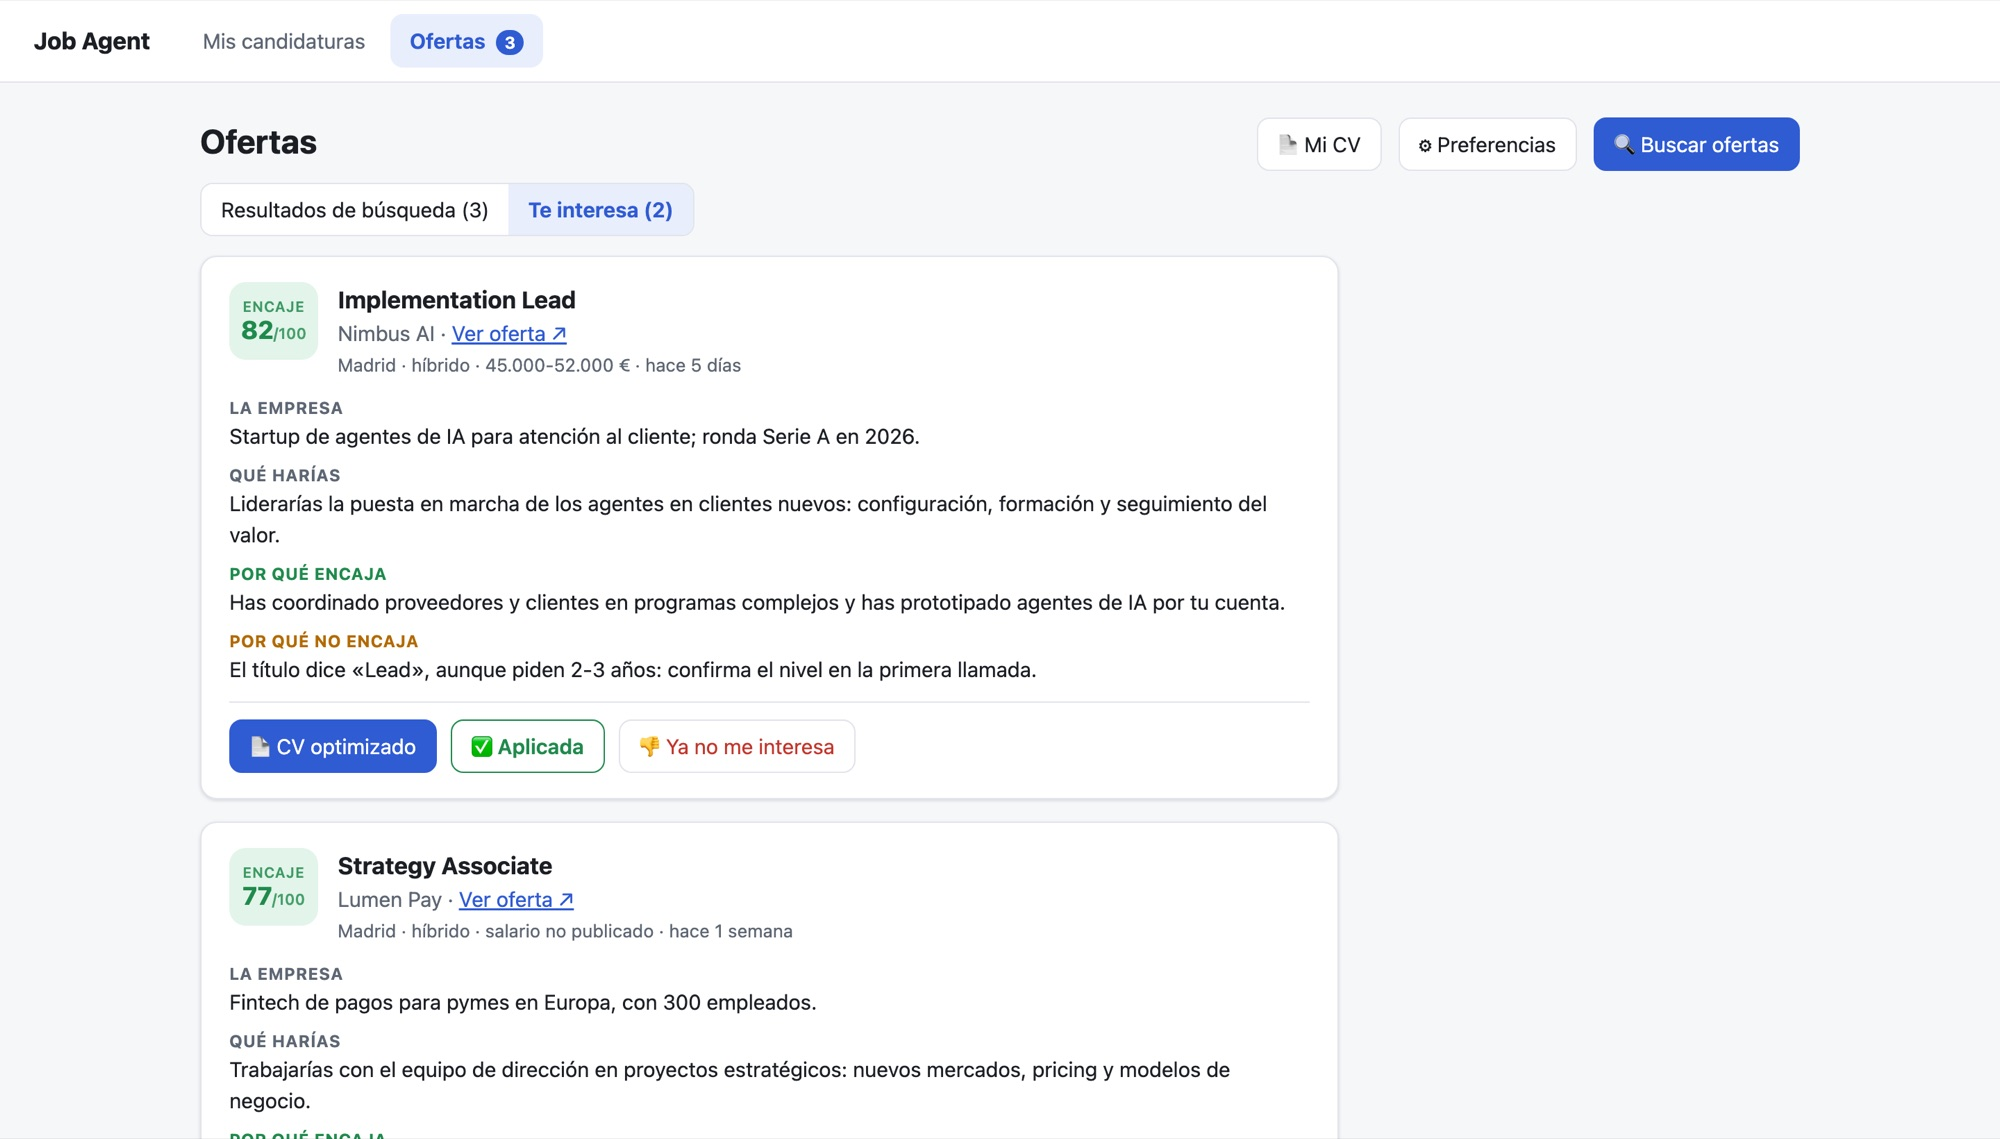
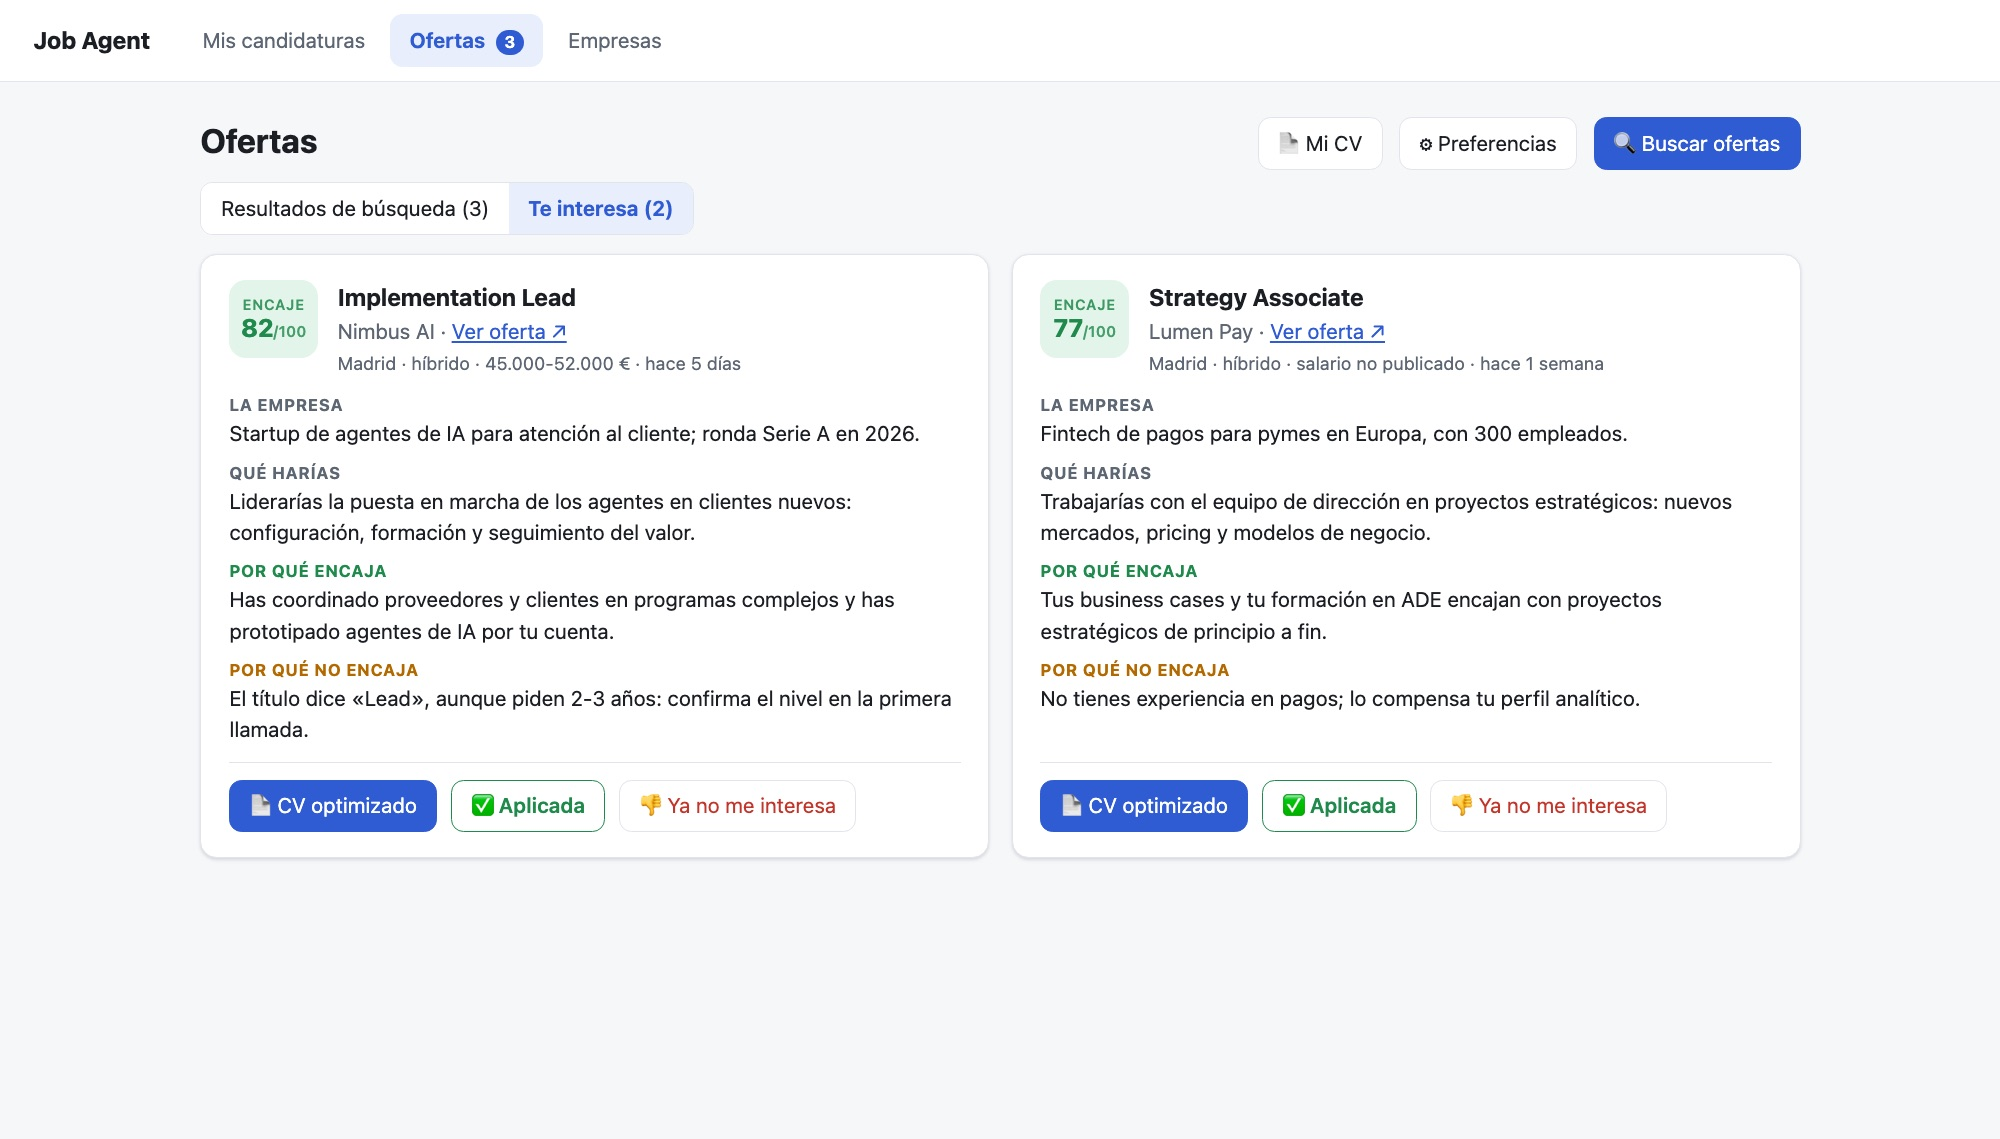
Job Agent: fichas de empresas y capturas nuevas de la interfaz

diff --git a/index.html b/index.html
@@ -93,7 +93,11 @@ h3 { font-size: 21px; letter-spacing: -.3px; margin: 0 0 8px; }
 .subtitulo { margin: 8px 0 14px; }
 .funcion ul { margin: 0; padding-left: 16px; color: var(--suave); font-size: 14px; }
 .funcion li { margin: 4px 0; }
-.funciones .funcion:last-child:nth-child(3n+1) { grid-column: 1 / -1; }
+.funciones { grid-template-columns: repeat(6, minmax(0, 1fr)); }
+.funciones .funcion { grid-column: span 2; }
+.funciones .funcion:nth-child(3n+1):nth-last-child(2), .funciones .funcion:nth-child(3n+1):nth-last-child(2) + .funcion { grid-column: span 3; }
+.funciones .funcion:nth-child(3n+1):last-child { grid-column: 1 / -1; }
+.galeria figure:last-child:nth-child(odd) { grid-column: 1 / -1; }
 .ficha { display: grid; grid-template-columns: auto 1fr; gap: 6px 14px; margin: 0; font-size: 14.5px; }
 .ficha dt { font-weight: 600; }
 .ficha dd { margin: 0; color: var(--suave); }
@@ -136,6 +140,7 @@ footer { border-top: 1px solid var(--borde); color: var(--suave); font-size: 13.
 .visor img { max-width: 96vw; max-height: 92vh; border-radius: 10px; box-shadow: 0 20px 60px rgba(0,0,0,.5); }
 
 @media (max-width: 860px) {
+  .funciones .funcion, .galeria figure { grid-column: auto !important; }
   .cifras-proyecto { grid-template-columns: repeat(2, minmax(0, 1fr)); }
   .funciones, .proyectos, .formacion, .dos-columnas, .galeria { grid-template-columns: minmax(0, 1fr); }
   .portada-grid, .skills { grid-template-columns: minmax(0, 1fr); gap: 28px; }
@@ -240,6 +245,7 @@ footer { border-top: 1px solid var(--borde); color: var(--suave); font-size: 13.
           <div class="funcion"><div class="icono">🧠</div><b><span lang="es">Aprende de mí</span><span lang="en">Learns from me</span></b><ul><li><span lang="es">Cada 👍/👎 a una oferta, con su motivo, ajusta mis «señales aprendidas»: lo que me interesa y lo que descarto.</span><span lang="en">Every 👍/👎 on an opening, with its reason, updates my "learned signals": what I like and what I reject.</span></li><li><span lang="es">Al ponderar las recomendaciones también tiene en cuenta las candidaturas en las que ya me han rechazado.</span><span lang="en">When weighing recommendations it also considers the applications where I've already been turned down.</span></li><li><span lang="es">Las búsquedas siguientes ya las tienen en cuenta, así que cuanto más lo uso, mejor acierta.</span><span lang="en">The next searches already take them into account, so the more I use it, the better it gets.</span></li></ul></div>
           <div class="funcion"><div class="icono">📄</div><b><span lang="es">CV optimizado y CV general</span><span lang="en">Tailored CV and general CV</span></b><ul><li><span lang="es">Un CV de una página para cada oferta, sin inventar nada.</span><span lang="en">A one-page CV for each opening, without making anything up.</span></li><li><span lang="es">Vista previa con notas: qué valoran, una tabla ✅/⚠/❌, qué ha cambiado y qué huecos preparar para la entrevista.</span><span lang="en">Preview with notes: what they value, a ✅/⚠/❌ table, what changed and which gaps to prepare for the interview.</span></li><li><span lang="es">Me avisa si aparece una cifra que no está en mi CV. También hace un CV general en inglés o en español.</span><span lang="en">It warns me if a figure appears that is not in my CV. It also makes a general CV in English or Spanish.</span></li></ul></div>
           <div class="funcion"><div class="icono">📊</div><b><span lang="es">Seguimiento de candidaturas</span><span lang="en">Application tracking</span></b><ul><li><span lang="es">Dashboard con «Para hoy», cifras, candidaturas por etapa y el próximo paso sugerido por la IA.</span><span lang="en">Dashboard with "Today", key numbers, applications by stage and the AI-suggested next step.</span></li><li><span lang="es">Ordeno por prioridad arrastrando.</span><span lang="en">I set priorities by drag and drop.</span></li><li><span lang="es">Flujo de un clic: CV optimizado → Aplicada → seguimiento.</span><span lang="en">One-click flow: tailored CV → Applied → follow-up.</span></li></ul></div>
+          <div class="funcion"><div class="icono">🏢</div><b><span lang="es">Fichas de empresas</span><span lang="en">Company cards</span></b><ul><li><span lang="es">Una ficha por cada empresa en la que tengo una candidatura activa (por aplicar, aplicada, en entrevistas o con oferta), de la más avanzada a la menos.</span><span lang="en">One card for every company where I have an active application (to apply, applied, interviewing or offer), sorted by how far along it is.</span></li><li><span lang="es">Resume qué hace y para quién, qué tipo de empresa es (startup, scale-up, big tech…), su tamaño o financiación, su sede, su web y mis puestos allí con su etapa.</span><span lang="en">It covers what the company does and for whom, what kind of company it is (startup, scale-up, big tech…), its size or funding, its HQ, its website and my roles there with their stage.</span></li><li><span lang="es">Se investigan solas en la web en cuanto la empresa entra en el proceso, una vez por empresa, sin confundir empresas con el mismo nombre. Así preparo una entrevista o un follow-up de un vistazo.</span><span lang="en">Researched on the web automatically as soon as a company enters the pipeline, once per company, without mixing up companies with the same name. That way I can prepare an interview or a follow-up at a glance.</span></li></ul></div>
           <div class="funcion"><div class="icono">📬</div><b><span lang="es">Lee mi Gmail</span><span lang="en">Reads my Gmail</span></b><ul><li><span lang="es">Vigila la bandeja cada 2 minutos y se pone al día al encender el ordenador.</span><span lang="en">Checks the inbox every 2 minutes and catches up when I turn on my computer.</span></li><li><span lang="es">Detecta entrevistas, rechazos, ofertas y plazos; actualiza la candidatura con la fecha del correo y me avisa.</span><span lang="en">Detects interviews, rejections, offers and deadlines; updates the application with the email date and notifies me.</span></li><li><span lang="es">De las alertas de empleo saca los puestos, los investiga y solo me avisa de los que encajan.</span><span lang="en">Extracts roles from job alerts, researches them and only tells me about the ones that fit.</span></li></ul></div>
           <div class="funcion"><div class="icono">💬</div><b><span lang="es">Chat por Slack</span><span lang="en">Slack chat</span></b><ul><li><span lang="es">Le escribo desde el móvil: «me han rechazado en X», «investiga esta oferta», «añade este proyecto a mi CV»…</span><span lang="en">I message it from my phone: "I got rejected at X", "research this opening", "add this project to my CV"…</span></li><li><span lang="es">Puede hacer 17 acciones distintas sobre mis datos.</span><span lang="en">It can perform 17 different actions on my data.</span></li><li><span lang="es">Recuerda la conversación, pregunta si algo es ambiguo y respeta los cambios que hago en la app.</span><span lang="en">It remembers the conversation, asks when something is ambiguous and respects the changes I make in the app.</span></li></ul></div>
         </div>
@@ -253,6 +259,8 @@ footer { border-top: 1px solid var(--borde); color: var(--suave); font-size: 13.
             <figcaption><span lang="es">Detalle de una candidatura: novedad, próximo paso sugerido e historial</span><span lang="en">Application detail: latest update, suggested next step and history</span></figcaption></figure>
           <figure><div class="marco" data-zoom="img/ja-te-interesa.jpg"><div class="puntos"><i></i><i></i><i></i></div><img src="img/ja-te-interesa.jpg" alt="Ofertas que me interesan"></div>
             <figcaption><span lang="es">«Te interesa»: CV optimizado, aplicada o descartar, en un clic</span><span lang="en">"Interested": tailored CV, applied or dismiss, in one click</span></figcaption></figure>
+          <figure><div class="marco" data-zoom="img/ja-empresas.jpg"><div class="puntos"><i></i><i></i><i></i></div><img src="img/ja-empresas.jpg" alt="Fichas de empresas"></div>
+            <figcaption><span lang="es">Empresas: una ficha por empresa con lo que hace, su tamaño, su sede y mis puestos allí</span><span lang="en">Companies: one card per company with what it does, its size, its HQ and my roles there</span></figcaption></figure>
         </div>
 
         <div class="dos-columnas">
